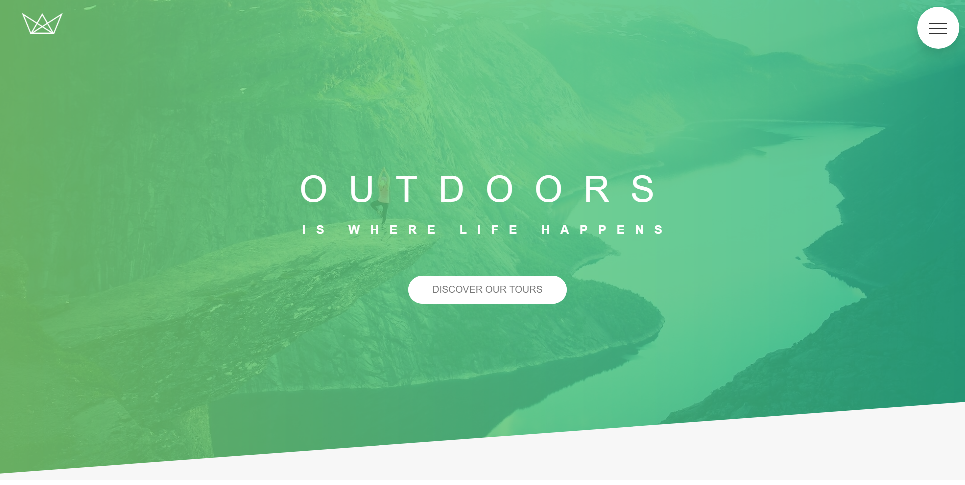
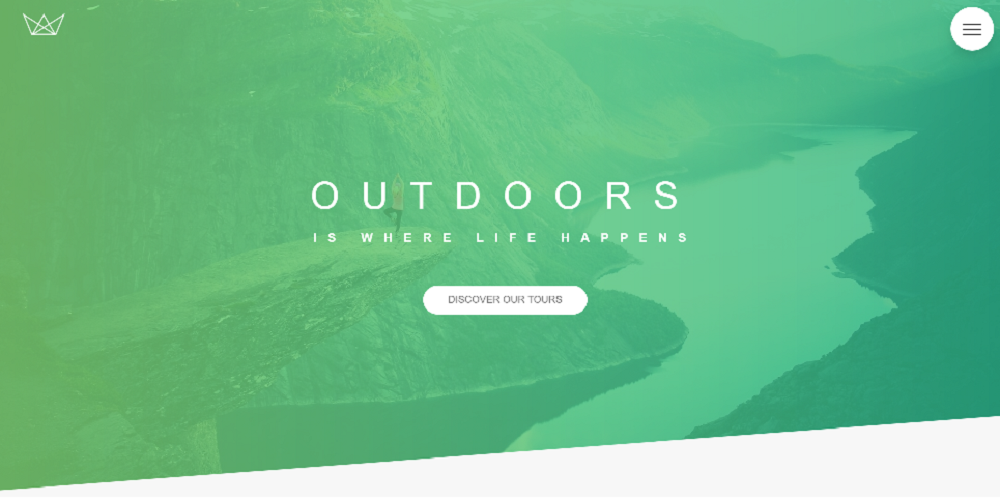
responsive images, sass variables and animations

diff --git a/index.html b/index.html
@@ -6,7 +6,7 @@
 
         <link href="https://fonts.googleapis.com/css?family=Lato:300,400,700,900|Montserrat:300,400,500,700,900" rel="stylesheet">
         <link rel="stylesheet" href="style/css/style.css">
-        <link rel="shortcut icon" type="image/png" href=""><!--Icon-->
+        <link rel="shortcut icon" type="image/png" href="images/favicon.png"><!--Icon-->
 
         <title>Ilmo Ott | Portfolio</title>
     </head>
@@ -28,10 +28,10 @@
 
         <section class="logo">
 
-            <h1 class="logo__name">Ilmo Ott</h1>
+            <h1 class="logo__name" id="name">Ilmo Ott</h1>
             <!-- The logo__name will be hidden-->
 
-            <h2 class="logo__letters">
+            <h2 class="logo__letters" id="logo">
                 <span class="logo__letters logo__letters--i">I</span>
                 <span class="logo__letters logo__letters--o">O</span>
             </h2>
@@ -44,35 +44,40 @@
                 <div class="project project--1">
                     <h3 class="project__title">Natours</h3>
                     <a href="https://ilmoott.github.io/Natours/"class="project__icon-link">
-                        <img src="images/projects/natours.png" alt="Natours website photo" class="project__icon-link--img" id="natours"></a>
+                        <img srcset="images/projects/natours-sm.png 500w, images/projects/natours.png 1000w" sizes="(max-width:1500px) 60vw, (max-width: 420px) 80vw"
+                                src="images/projects/natours-sm.png" alt="Natours website photo" class="project__icon-link--img" id="natours"></a>
                     <label for="natours">Html and Css project using Sass variables and folder organization. Layout designed using CSS floats.</label>
                 </div>
 
                 <div class="project project--2">
                     <h3 class="project__title">Trillo</h3>
                     <a href="https://ilmoott.github.io/Trillo/"class="project__icon-link">
-                        <img src="images/projects/trillo.png" alt="Trillo website photo" class="project__icon-link--img" id="trillo"></a>
+                        <img srcset="images/projects/trillo-sm.png 500w, images/projects/trillo.png 1000w" sizes="(max-width:1500px) 60vw, (max-width: 420px) 80vw"
+                        src="images/projects/trillo-sm.png" alt="Trillo website photo" class="project__icon-link--img" id="trillo"></a>
                     <label for="natours">Html and Css project using Sass. Layout designed using CSS Flexbox.</label>
                 </div>
 
                 <div class="project project--3">
                     <h3 class="project__title">Nexter</h3>
                     <a href="https://ilmoott.github.io/Nexter/" class="project__icon-link">
-                        <img src="images/projects/nexter.png" alt="Nexter website photo" class="project__icon-link--img" id="nexter"></a>
+                        <img srcset="images/projects/nexter-sm.png 500w, images/projects/nexter.png 1000w" sizes="(max-width:1500px) 60vw, (max-width: 420px) 80vw"
+                         src="images/projects/nexter-sm.png" alt="Nexter website photo" class="project__icon-link--img" id="nexter"></a>
                     <label for="natours">Project using Sass and layout created with CSS Grid.</label>
                 </div>
 
                 <div class="project project--4">
                     <h3 class="project__title">Budgety</h3>
                     <a href="https://ilmoott.github.io/Budgety/"class="project__icon-link">
-                        <img src="images/projects/budgety.png" alt="Budget app photo" class="project__icon-link--img" id="budgety"></a>
+                        <img srcset="images/projects/budgety-sm.png 500w, images/projects/budgety.png 1000w" sizes="(max-width:1500px) 60vw, (max-width: 420px) 80vw"
+                         src="images/projects/budgety-sm.png" alt="Budget app photo" class="project__icon-link--img" id="budgety"></a>
                     <label for="natours">Small budget app using Vanilla Javascript.</label>
                 </div>
 
                 <div class="project project--5">
                     <h3 class="project__title">Greetr</h3>
                     <a href="https://ilmoott.github.io/Greetr/"class="project__icon-link">
-                        <img src="images/projects/greetr.png" alt="Greetr mini library screenshot" class="project__icon-link--img" id="greetr"></a>
+                        <img srcset="images/projects/greetr-sm.png 500w, images/projects/greetr.png 1000w" sizes="(max-width:1500px) 60vw, (max-width: 420px) 80vw"
+                         src="images/projects/greetr-sm.png" alt="Greetr mini library screenshot" class="project__icon-link--img" id="greetr"></a>
                     <label for="natours">Mini Javascript library created for the Udemy's course "Javascript - Understanding the weird parts".</label>
                 </div>
         </section>

diff --git a/style/css/style.css b/style/css/style.css
@@ -34,13 +34,16 @@ body {
   padding: 1rem; }
 
 .menu__item {
-  width: 20%; }
+  width: 20%;
+  transition: all .2s; }
   .menu__item:hover {
     border-bottom: 1px solid #e6e5ea; }
 
 .logo__letters {
   font-size: 20rem;
-  font-weight: 300; }
+  font-weight: 300;
+  text-shadow: 0 10px 20px #38393a;
+  animation: fadeUp 1.5s ease-out; }
   @media screen and (min-width: 120rem) {
     .logo__letters {
       font-size: 40rem; } }
@@ -83,26 +86,38 @@ body {
 .contact {
   margin-top: 10rem;
   border-top: 1px solid #e6e5ea; }
+  @media screen and (min-width: 65rem) {
+    .contact {
+      font-size: 4rem; } }
   .contact__item:not(:first-child) {
     margin-top: 1rem; }
   .contact__link img {
     width: 20%; }
+    @media screen and (min-width: 80rem) {
+      .contact__link img {
+        width: 8%; } }
     @media screen and (min-width: 100rem) {
       .contact__link img {
-        width: 5%; } }
+        width: 4%; } }
 
 .header {
-  margin-top: 2rem; }
+  margin: 2rem auto 2rem auto; }
   .header .menu {
     display: flex;
     flex-basis: 100%;
-    list-style: none; }
+    list-style: none;
+    border-radius: 3px; }
     .header .menu__item {
-      flex: 1;
+      flex-basis: 33%;
       text-align: center; }
 
-.logo__name {
-  display: none; }
+.logo {
+  transition: all 1s; }
+  .logo .logo__name {
+    display: none;
+    font-weight: 300;
+    border-bottom: 1px solid #e6e5ea;
+    position: fixed; }
 
 .logo__letters {
   height: 75vh;
@@ -110,3 +125,11 @@ body {
   align-items: flex-end;
   justify-content: center;
   margin-bottom: 20vh; }
+
+@keyframes fadeUp {
+  0% {
+    opacity: 0; }
+  80% {
+    opacity: 0; }
+  100% {
+    opacity: 1; } }

diff --git a/style/scss/0-Base/_typography.scss b/style/scss/0-Base/_typography.scss
@@ -1,11 +1,11 @@
 body{
-    font-size: 2rem;
+    font-size: $font-sm;
     font-family: 'Lato', sans-serif;
-    color: #e6e5ea;
-    font-weight: 300;
+    color: $color-primary;
+    font-weight: $font-weight;
 
     @media screen and (min-width: 100rem){
-        font-size: 3rem;
+        font-size: $font-md;
     }
 };
 
@@ -15,8 +15,8 @@ body{
     &__link:link,
     &__link:visited,{
         text-decoration: none;
-        color: #e6e5ea;
-        font-weight: 300;
+        color: $color-primary;
+        font-weight: $font-weight;
         transition: all .2s;
         padding: 1rem;
 
@@ -24,9 +24,10 @@ body{
 
     &__item{
         width: 20%;
+        transition: all .2s;
     
         &:hover{
-            border-bottom: 1px solid #e6e5ea;
+            border-bottom: 1px solid $color-primary;
         }
     }
 }
@@ -34,18 +35,20 @@ body{
 
 
 .logo__letters{
-    font-size: 20rem;
-    font-weight: 300;
+    font-size: $font-logo-sm;
+    font-weight: $font-weight;
+    text-shadow: 0 10px 20px $shadow-color;
+    animation: fadeUp 1.5s ease-out;
 
     @media screen and (min-width: 120rem) {
-        font-size: 40rem;
+        font-size: $font-logo-bg;
     }
 }
 
 .project{
 
     &__title{
-        font-weight: 300;
+        font-weight: $font-weight;
         text-align: center;
 
     }
@@ -66,6 +69,6 @@ body{
     &__link:link,
     &__link:visited{
         text-decoration: none;
-        color: #e6e5ea;
+        color: $color-primary;
     }
 }

diff --git a/js/app.js b/js/app.js
@@ -1,6 +1,6 @@
 ;(function(){
 
-    let projects, projectsArray;
+    let projects, projectsArray, name, logo;
 
     projects = document.getElementsByClassName('project');
     projectsArray = Array.from(projects);
@@ -13,6 +13,18 @@
         sr.reveal(e,{duration: 1500})
     });
 
+    let removeName = function (){
+
+        logo = document.getElementById('logo');
+        name = document.getElementById('name');
+        logo.addEventListener('click',function(){
+            logo.style.display = 'none';
+            name.style.display = 'block';
+        })
+    }
+    
+    removeName();
 
 })();
+
 

diff --git a/style/scss/1-Layout/_header.scss b/style/scss/1-Layout/_header.scss
@@ -1,19 +1,31 @@
 .header{
-    margin-top: 2rem;
+    margin: 2rem auto 2rem auto;
+
 
     .menu{
         display: flex;
         flex-basis: 100%;
         list-style: none;
+        border-radius: 3px;
 
         &__item{
-            flex: 1;
+            flex-basis: 33%;
             text-align: center;
         }
 
     }
 }
 
-.logo__name{
-    display: none;
+
+.logo{
+    transition: all 1s;
+
+    .logo__name{
+        display: none;
+        font-weight: 300;
+        border-bottom: 1px solid #e6e5ea;
+        position: fixed;
+
+    }
+
 }

diff --git a/style/scss/1-Layout/_footer.scss b/style/scss/1-Layout/_footer.scss
@@ -2,6 +2,11 @@
     margin-top: 10rem;
     border-top: 1px solid #e6e5ea;
 
+    
+    @media screen and (min-width: 65rem){
+        font-size: 4rem;
+    }
+
     &__item:not(:first-child){
         margin-top: 1rem;
     }
@@ -11,10 +16,15 @@
         img{
             width: 20%;
 
+            @media screen and (min-width: 80rem) {
+                width: 8%;
+            }
 
             @media screen and (min-width: 100rem) {
-                width: 5%;
+                width: 4%;
             }
         }
     }
+
+    
 }

diff --git a/style/scss/_variables.scss b/style/scss/_variables.scss
@@ -1,0 +1,12 @@
+$font-sm: 3rem;
+$font-md: 4rem;
+$font-bg: 5rem;
+
+$font-logo-sm: 20rem;
+$font-logo-bg: 40rem;
+
+$font-weight: 300;
+
+$color-primary: #e6e5ea;
+
+$shadow-color: #38393a;

diff --git a/style/scss/main.scss b/style/scss/main.scss
@@ -1,3 +1,4 @@
+@import "variables";
 @import "../scss/0-Base/_base-dir.scss";
 @import "../scss/1-Layout/_layout-dir.scss";
 @import "../scss/2-Abstract/_abstract-dir.scss";

diff --git a/style/scss/2-Abstract/_animations.scss b/style/scss/2-Abstract/_animations.scss
@@ -1,0 +1,12 @@
+@keyframes fadeUp{
+    0%{
+        opacity: 0;
+    }
+    80%{
+        opacity: 0;
+
+    }
+    100%{
+        opacity: 1;
+    }
+}

diff --git a/style/scss/2-Abstract/_abstract-dir.scss b/style/scss/2-Abstract/_abstract-dir.scss
@@ -1,2 +1,2 @@
 @import "mixins";
-@import "variables";
+@import "animations";

diff --git a/style/scss/0-Base/_base-dir.scss b/style/scss/0-Base/_base-dir.scss
@@ -1,3 +1,2 @@
-@import "animations";
 @import "base";
 @import "typography";
